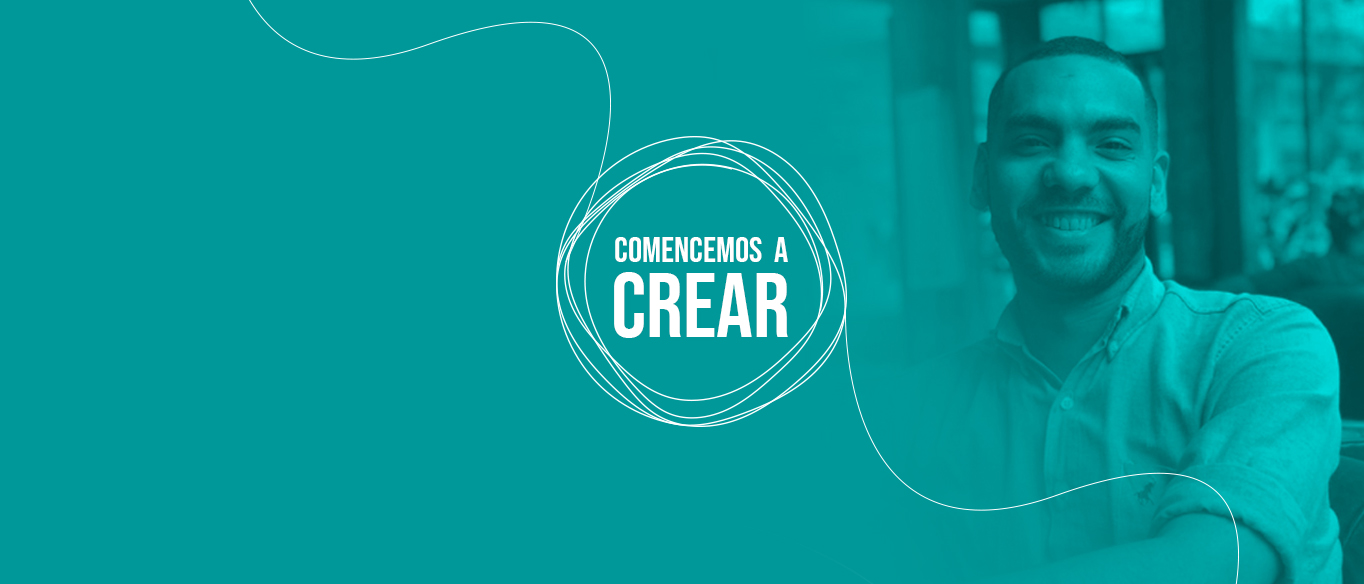
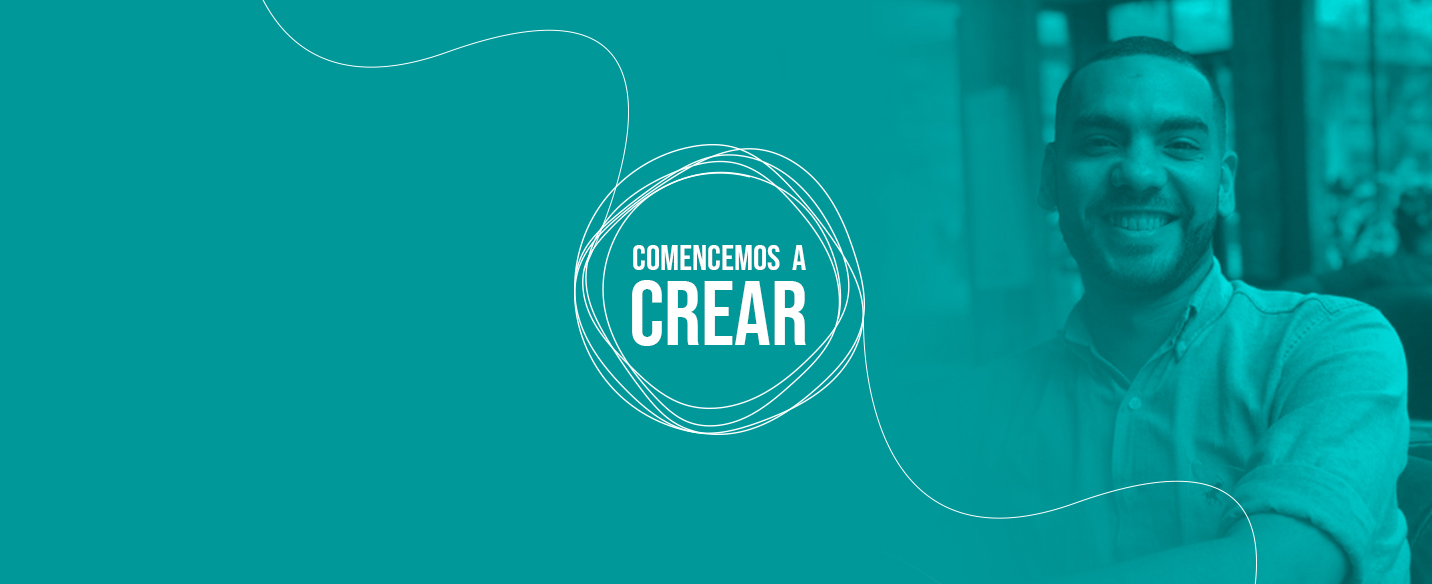
ajuste imagen formulario grande

diff --git a/scss/estilo.scss b/scss/estilo.scss
@@ -386,8 +386,7 @@ div.fixed {
       }
     }
     
-.imgFormularioChico{   
-    }
+
 
 @media only screen and (max-width: 598px) {
 .imgFormularioChico {
@@ -400,15 +399,13 @@ div.fixed {
 
 }
 
-.imgFormularioGrande {
 
-}
 
 @media only screen and (min-width: 599px) {
   .imgFormularioGrande {
     background: url(../images/imgformulario.jpg) no-repeat;
     background-position: center center;
-    width: 1200px;
+    width: 1500px;
     height: 500px;
   
     }

diff --git a/css/estilo.css b/css/estilo.css
@@ -426,7 +426,7 @@ div.fixed {
   .imgFormularioGrande {
     background: url(../images/imgformulario.jpg) no-repeat;
     background-position: center center;
-    width: 1200px;
+    width: 1500px;
     height: 500px; } }
 
 .aumentoGaleriaSocial {
